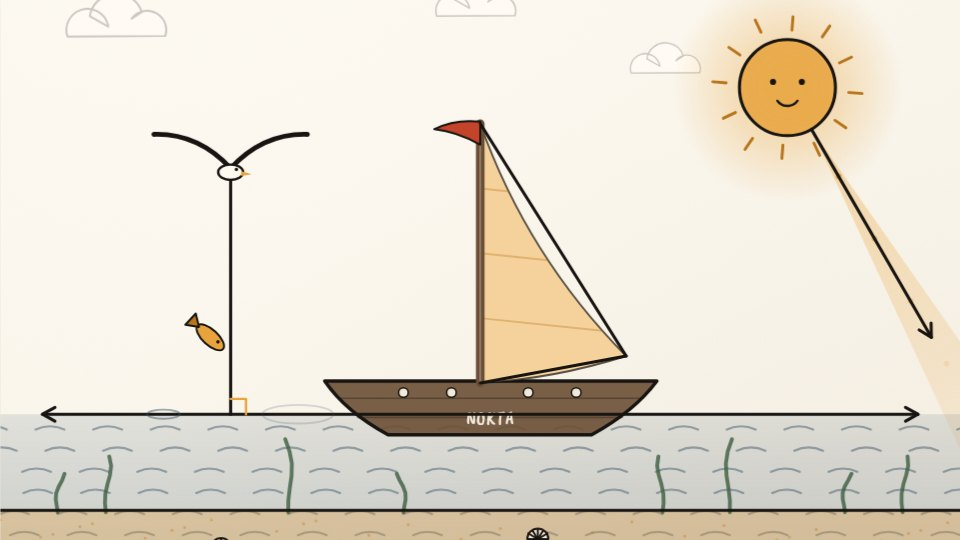
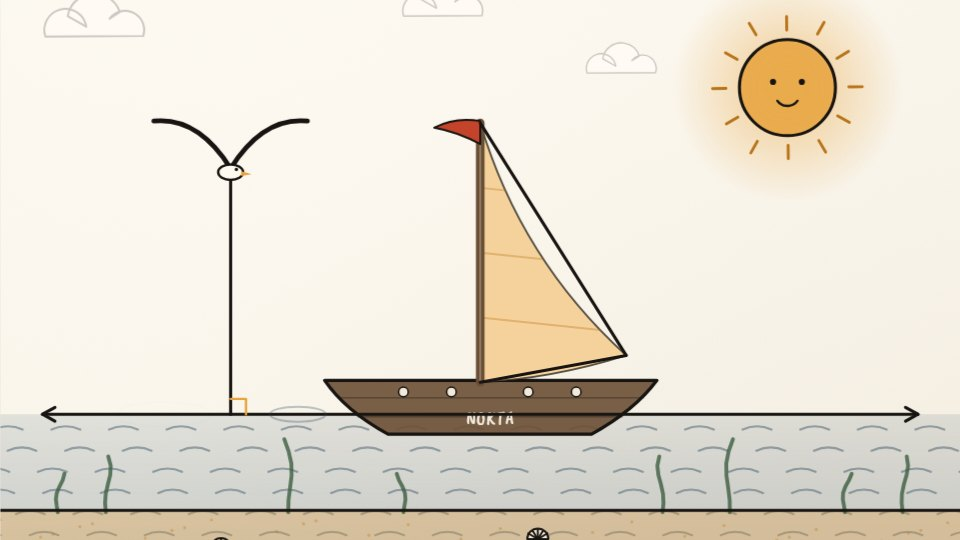
Araç Ustası: ışık adımı ve açıölçer kaldırıldı
Işın kavramı martı adımında işleniyor ([MU ve [MV ışınları); araç
listesinde yalnız kullanılan araçlar (ölçüsüz cetvel, pergel, gönye) kaldı.

Claude-Session: https://claude.ai/code/session_01T5b4bcUCWBHqyGK8hdTQfB

diff --git a/js/arac-ustasi.js b/js/arac-ustasi.js
@@ -13,7 +13,6 @@
     D: { x: 70, y: SEA, lx: -4, ly: -22 }, E: { x: 930, y: SEA, lx: 4, ly: -22 },
     A: { x: 500, y: 440, lx: -20, ly: 4 }, B: { x: 500, y: 170, lx: -18, ly: -14 }, C: { x: 652, y: 412, lx: 20, ly: -4 },
     O: { x: 820, y: 130, lx: -18, ly: -18 }, R: { x: 870, y: 130, lx: 18, ly: -12 },
-    T: { x: 845, y: 173.3, lx: -16, ly: 14 }, S: { x: 895, y: 260, lx: -18, ly: 4 },
     M: { x: 240, y: 214, lx: -2, ly: 28 }, U: { x: 160, y: 168, lx: -10, ly: -18 }, V: { x: 320, y: 168, lx: 10, ly: -18 },
     W: { x: 150, y: FLOOR, lx: -20, ly: -14 },
   };
@@ -24,7 +23,6 @@
     cetvel: { ad: 'Ölçüsüz cetvel', alt: 'çizgeç', svg: '<rect x="3" y="15" width="58" height="13" rx="2.5" fill="none" stroke="currentColor" stroke-width="2.6"/><path d="M10 21.5h44" stroke="currentColor" stroke-width="1.2" opacity=".35"/>' },
     pergel: { ad: 'Pergel', alt: 'çember', svg: '<circle cx="32" cy="7" r="3.4" fill="currentColor"/><path d="M32 9 L19 40 M32 9 L45 38" stroke="currentColor" stroke-width="2.8" stroke-linecap="round"/><path d="M45 38 l1.5 4" stroke="#e8a33d" stroke-width="3" stroke-linecap="round"/><circle cx="19" cy="40" r="1.6" fill="currentColor"/>' },
     gonye: { ad: 'Gönye', alt: 'dik açı', svg: '<path d="M12 40 L12 5 L56 40 Z" fill="none" stroke="currentColor" stroke-width="2.6" stroke-linejoin="round"/><path d="M19 33 L19 22 L33 33 Z" fill="none" stroke="currentColor" stroke-width="1.6" opacity=".55"/><path d="M12 33 h7 v7" fill="none" stroke="#e8a33d" stroke-width="2.2"/>' },
-    aciolcer: { ad: 'Açıölçer', alt: 'derece', svg: '<path d="M7 38 A25 25 0 0 1 57 38 Z" fill="none" stroke="currentColor" stroke-width="2.6" stroke-linejoin="round"/><path d="M32 38 L32 31 M14 21 l4 4 M50 21 l-4 4 M32 13 v5" stroke="currentColor" stroke-width="1.8" stroke-linecap="round"/><circle cx="32" cy="38" r="2.2" fill="#e8a33d"/>' },
   };
 
   const TASKS = [
@@ -44,14 +42,10 @@
       say: 'Güneş doğsun: merkezi <b>O</b>, <b>R</b>’den geçen bir <em>çember</em>.',
       go: 'Pergelin sivri ucunu <b>O</b>’ya batır, kalemi <b>R</b>’ye kadar aç, sonra <em>tam bir tur döndür</em>!',
       done: 'Güneş parladı! Çemberin her noktası O’ya eşit uzaklıkta; |OR| <b>yarıçap</b>.' },
-    { id: 'isik', tool: 'cetvel', kind: 'ray', pts: ['T', 'S'], name: 'Işık',
-      say: 'Güneşten bir ışık huzmesi: <b>T</b>’den başlayıp <b>S</b>’den geçen <em>[TS ışını</em>.',
-      go: 'Işın başlangıç noktasından çizilir: <b>T</b>’den <b>S</b>’ye sürükle.',
-      done: 'Işık yayıldı! Işının bir başlangıç noktası var, öbür yanı sonsuza gider.' },
     { id: 'marti', tool: 'cetvel', kind: 'angle', pts: ['M', 'U', 'V'], name: 'Martı',
-      say: 'Bir martı geliyor! Kanatları bir <em>açı</em>: köşesi <b>M</b>, kolları <b>[MU</b> ve <b>[MV</b>.',
-      go: 'Köşeden başla: <b>M</b>’den <b>U</b>’ya, sonra yine <b>M</b>’den <b>V</b>’ye sürükle.',
-      done: 'Martı kanat çırpıyor! Aynı noktadan çıkan iki ışın <b>UMV açısını</b> oluşturdu.' },
+      say: 'Bir martı geliyor! Her kanadı bir <em>ışın</em>: <b>M</b>’den başlayıp sonsuza gider. İki ışın birlikte bir <em>açı</em> oluşturur.',
+      go: 'Işın başlangıç noktasından çizilir: <b>M</b>’den <b>U</b>’ya, sonra yine <b>M</b>’den <b>V</b>’ye sürükle.',
+      done: 'Martı kanat çırpıyor! <b>[MU</b> ve <b>[MV</b> ışınlarının bir başlangıç noktası var, öbür yanları sonsuza gider. Aynı noktadan çıkan bu iki ışın <b>UMV açısını</b> oluşturdu.' },
     { id: 'dalis', tool: 'gonye', kind: 'perp', pts: ['M'], name: 'Dalış',
       say: 'Martı balık gördü! Denize <em>en kısa yoldan</em> dalacak: M’den denize bir <em>dikme</em>.',
       go: '<b>M</b>’ye bas ve gönyeyi denize doğru sürükle. Dik köşe yerine oturunca kehribar olur; orada bırak.',
@@ -107,15 +101,6 @@
     c.globalAlpha = a; c.fillStyle = N.INK;
     c.beginPath(); c.arc(o.x - 15, o.y - 6, 3.2, 0, Math.PI * 2); c.arc(o.x + 15, o.y - 6, 3.2, 0, Math.PI * 2); c.fill();
     c.beginPath(); c.arc(o.x, o.y + 6, 13, .2 * Math.PI, .8 * Math.PI); c.strokeStyle = N.INK; c.lineWidth = 2.5; c.stroke(); c.globalAlpha = 1;
-  }
-  function drawBeam(c) {
-    const a = A('isik'); if (!a) return;
-    const u = g.unit(g.sub(P.S, P.T)), n = { x: -u.y, y: u.x }, L = 520;
-    const tip = g.add(P.T, g.mul(u, L));
-    c.beginPath(); c.moveTo(P.T.x, P.T.y); c.lineTo(tip.x + n.x * 46, tip.y + n.y * 46); c.lineTo(tip.x - n.x * 46, tip.y - n.y * 46); c.closePath();
-    const gr = c.createLinearGradient(P.T.x, P.T.y, tip.x, tip.y); gr.addColorStop(0, `rgba(232,163,61,${.38 * a})`); gr.addColorStop(1, 'rgba(232,163,61,0)');
-    c.fillStyle = gr; c.fill();
-    for (let i = 0; i < 4; i++) { const k = ((st.t * .35 + i / 4) % 1), p = g.add(P.T, g.mul(u, 40 + k * 300)); c.globalAlpha = a * (1 - k); d.dot(c, p, { r: 3, color: N.AMBER }); c.globalAlpha = 1; }
   }
   function drawSea(c) {
     const a = A('deniz'); if (!a) return;
@@ -198,7 +183,7 @@
 
   /* ══════════ ÇİZİM DÖNGÜSÜ ══════════ */
   S.draw = (c) => {
-    drawSky(c); drawSun(c); drawBeam(c); drawSea(c); drawFloor(c);
+    drawSky(c); drawSun(c); drawSea(c); drawFloor(c);
     c.save(); c.translate(0, bob());
     drawHull(c); drawMastSail(c);
     for (const o of st.objs) if (o.boat) drawObj(c, o);
@@ -292,12 +277,11 @@
   function toolPanel() {
     const T = TASKS[st.ti];
     const el = N.panel(`<div class="card"><span class="label">${st.ti + 1} / ${TASKS.length} · ${st.subPar ? 'Birleştir' : T.name}${st.streak >= 2 ? ` · seri ×${st.streak}` : ''}</span><h3>Hangi araç?</h3>
-      <div class="tools">${Object.entries(TOOLS).map(([k, t]) => `<button class="tool" type="button" data-tool="${k}"><svg viewBox="0 0 64 44" aria-hidden="true">${t.svg}</svg>${t.ad}<small>${t.alt}</small></button>`).join('')}</div>
+      <div class="tools" style="grid-template-columns:repeat(3,minmax(0,1fr))">${Object.entries(TOOLS).map(([k, t]) => `<button class="tool" type="button" data-tool="${k}"><svg viewBox="0 0 64 44" aria-hidden="true">${t.svg}</svg>${t.ad}<small>${t.alt}</small></button>`).join('')}</div>
       ${stepsHtml()}</div>`);
     el.querySelectorAll('.tool').forEach((b) => b.addEventListener('click', () => pickTool(b.dataset.tool, b)));
   }
   function wrongTool(need, got) {
-    if (got === 'aciolcer') return 'Açıölçer açıları <b>ölçer</b>; çizgi ya da çember çizmez.';
     if (need === 'cetvel') return got === 'pergel' ? 'Pergel <b>çember</b> çizer. Burada dümdüz bir çizgi lazım.' : 'Gönyenin işi <b>dik açı</b>. Düz bir çizgi için ölçüsüz cetvel yeter.';
     if (need === 'pergel') return 'Cetvelle düz çizilir. O’ya <b>eşit uzaklıktaki</b> tüm noktalar için hangi araç?';
     return got === 'pergel' ? 'Pergel çember çizer. Bize köşesi <b>dik açı</b> olan bir araç lazım.' : 'Cetvel dik açıyı garanti etmez. Köşesi <b>dik açı</b> olan araç hangisi?';
@@ -320,8 +304,7 @@
     const T = TASKS[st.ti];
     if (st.subPar) return { pairs: [['P1', 'P2'], ['P2', 'P1']] };
     if (T.kind === 'segs') { const [a, b] = T.pairs[st.pair]; return { pairs: [[a, b], [b, a]] }; }
-    if (T.kind === 'ray') return { pairs: [['T', 'S']], wrongStart: { S: 'Işın <b>başlangıç noktasından</b> çizilir. T’den başla.' } };
-    if (T.kind === 'angle') { const p = []; if (!st.done.has('MU')) p.push(['M', 'U']); if (!st.done.has('MV')) p.push(['M', 'V']); return { pairs: p, wrongStart: { U: 'Açı çizerken <b>köşeden</b> başla: M.', V: 'Açı çizerken <b>köşeden</b> başla: M.' } }; }
+    if (T.kind === 'angle') { const p = []; if (!st.done.has('MU')) p.push(['M', 'U']); if (!st.done.has('MV')) p.push(['M', 'V']); return { pairs: p, wrongStart: { U: 'Işın <b>başlangıç noktasından</b> çizilir: M’den başla.', V: 'Işın <b>başlangıç noktasından</b> çizilir: M’den başla.' } }; }
     return { pairs: [[T.pts[0], T.pts[1]], [T.pts[1], T.pts[0]]] };
   }
 
@@ -414,7 +397,7 @@
     else if (T.kind === 'seg' || T.kind === 'segs') await add({ k: 'seg', a: pa, b: pb, boat: true });
     else if (T.kind === 'ray') await add({ k: 'ray', a: pa, b: pb, ext: 150 });
     else if (T.kind === 'angle') {
-      await add({ k: 'ray', a: P.M, b: pb, ext: 50, w: 2.4, color: 'rgba(23,20,17,.6)' }); st.done.add('M' + b);
+      await add({ k: 'ray', a: P.M, b: pb, ext: 60, w: 3 }); st.done.add('M' + b);
       st.busy = false;
       if (st.done.has('MU') && st.done.has('MV')) { await add({ k: 'arc', v: P.M, a1: g.ang(P.M, P.V), a2: g.ang(P.M, P.U), r: 34 }, 250); return taskDone(); }
       N.say(`Bir kol tamam! Şimdi yine <b>M</b>’den <b>${b === 'U' ? 'V' : 'U'}</b>’ye sürükle.`, 'good'); return;
@@ -460,7 +443,7 @@
     N.say('Doğru, doğru parçası, ışın, açı, çember, dikme ve paralel: hepsi bir arada. <b>Yelkenli denizde!</b>', 'good');
     await N.tween(1200, (t) => { st.finale = t; }); N.sfx.win(); N.splash({ x: 520, y: 320 });
     const total = st.stars.reduce((s, x) => s + (x || 0), 0);
-    const el = N.panel(`<div class="card"><span class="label">Resim tamam · ${total} / 24 yıldız</span><h3>Çizimlerinden ne öğrendin?</h3>
+    const el = N.panel(`<div class="card"><span class="label">Resim tamam · ${total} / ${TASKS.length * 3} yıldız</span><h3>Çizimlerinden ne öğrendin?</h3>
       <p class="small">Altı kısa soru, her biri 50 puan. Cevaplayınca tahtada küçük bir gösteri var.</p>
       <button class="btn primary big" id="qgo" type="button">Sorulara geç →</button>${stepsHtml()}</div>`);
     el.querySelector('#qgo').addEventListener('click', () => { st.phase = 'quiz'; quiz(0); });
@@ -522,7 +505,7 @@
   N.say('Merhaba, ben <b>Nokta</b>! Teknemin gövdesi hazır ama denizi, direği, yelkeni… hepsi eksik. Araçlarımla bana yardım eder misin?');
   const el = N.panel(`<div class="card"><span class="label">Nasıl oynanır?</span>
     <p>Her adımda önce <b>doğru aracı</b> seç, sonra aracı kullan: cetvelle <b>sürükle</b>, pergeli <b>döndür</b>, gönyeyi <b>kaydır</b>. Her çizim sahnede canlanır!</p>
-    <p class="small">Hatasız adım = 3 yıldız. Art arda hatasız adımlar seri bonusu getirir.</p>
+    <p class="small">Araçlar: ölçüsüz cetvel, pergel, gönye. Hatasız adım = 3 yıldız. Art arda hatasız adımlar seri bonusu getirir.</p>
     <button class="btn primary big" id="go" type="button">Başla →</button></div>`);
   el.querySelector('#go').addEventListener('click', startTask);
 
@@ -530,7 +513,7 @@
     TASKS.forEach((T) => { T.pts.forEach((k) => st.shown.add(k)); st.alive[T.id] = 1; });
     st.objs = [
       { k: 'line', a: P.D, b: P.E, ext: 26, t: 1 }, { k: 'seg', a: P.B, b: P.C, t: 1, boat: true }, { k: 'seg', a: P.C, b: P.A, t: 1, boat: true },
-      { k: 'circle', c: P.O, r: 50, t: 1 }, { k: 'ray', a: P.T, b: P.S, ext: 150, t: 1 }, { k: 'seg', a: P.M, b: FOOT, t: 1 }, { k: 'right', v: FOOT, u: { x: 0, y: -1 }, w2: { x: 1, y: 0 }, t: 1 },
+      { k: 'circle', c: P.O, r: 50, t: 1 }, { k: 'seg', a: P.M, b: FOOT, t: 1 }, { k: 'right', v: FOOT, u: { x: 0, y: -1 }, w2: { x: 1, y: 0 }, t: 1 },
       { k: 'line', a: { x: 150, y: FLOOR }, b: { x: 700, y: FLOOR }, ext: 900, t: 1 },
     ];
     st.t = 1.3; st.finale = 1;

diff --git a/README.md b/README.md
@@ -8,7 +8,7 @@ Canlı sürüm: **https://hakanatas.github.io/matematik-oyun/**
 
 | Kod | Oyun | Ne yapılıyor? | Film |
 |---|---|---|---|
-| MAT.5.3.1 – 5.3.2 | [Araç Ustası](oyunlar/arac-ustasi.html) | Doğru aracı seç (ölçüsüz cetvel, pergel, gönye, açıölçer), yelkenliyi çiz: doğru, doğru parçası, ışın, çember, açı, dikme, paralel. Sonunda çizimlerden çıkarım soruları var. | Noktadan Çembere |
+| MAT.5.3.1 – 5.3.2 | [Araç Ustası](oyunlar/arac-ustasi.html) | Doğru aracı seç (ölçüsüz cetvel, pergel, gönye) ve kullan: cetvelle sürükle, pergeli döndür, gönyeyi kaydır. Doğru, doğru parçası, ışın, çember, açı, dikme ve paralel çizildikçe yelkenli sahnesi canlanır. Sonunda çizimlerden çıkarım soruları var. | Noktadan Çembere |
 | MAT.5.3.3 | [Açı Avcısı](oyunlar/aci-avcisi.html) | Önce tahmin et, sonra sürüklenip döndürülebilen açıölçerle ölç. Açıyı sınıflandır, verilen ölçüde açı ve eş açı kur. | Kaç Derece? |
 | MAT.5.3.4 | [Kesişme Dedektifi](oyunlar/kesisme-dedektifi.html) | Paralel, kesişen, dik ve çakışık doğrular. Açı bulmacalarında ters, komşu bütünler ve tümler açılar. Doğruları çevirerek “6 dar açı” gibi görevleri tamamla. | Doğrular Kesişince |
 | MAT.5.3.5 | [Şekli Kapat](oyunlar/sekli-kapat.html) | Doğruları ardışık kesiştir; son doğru ilkini kesince çokgen kapanır. Üçgenden altıgene kadar çokgen kur, n doğru → n kenar genellemesini yap. | Doğrulardan Çokgene |
